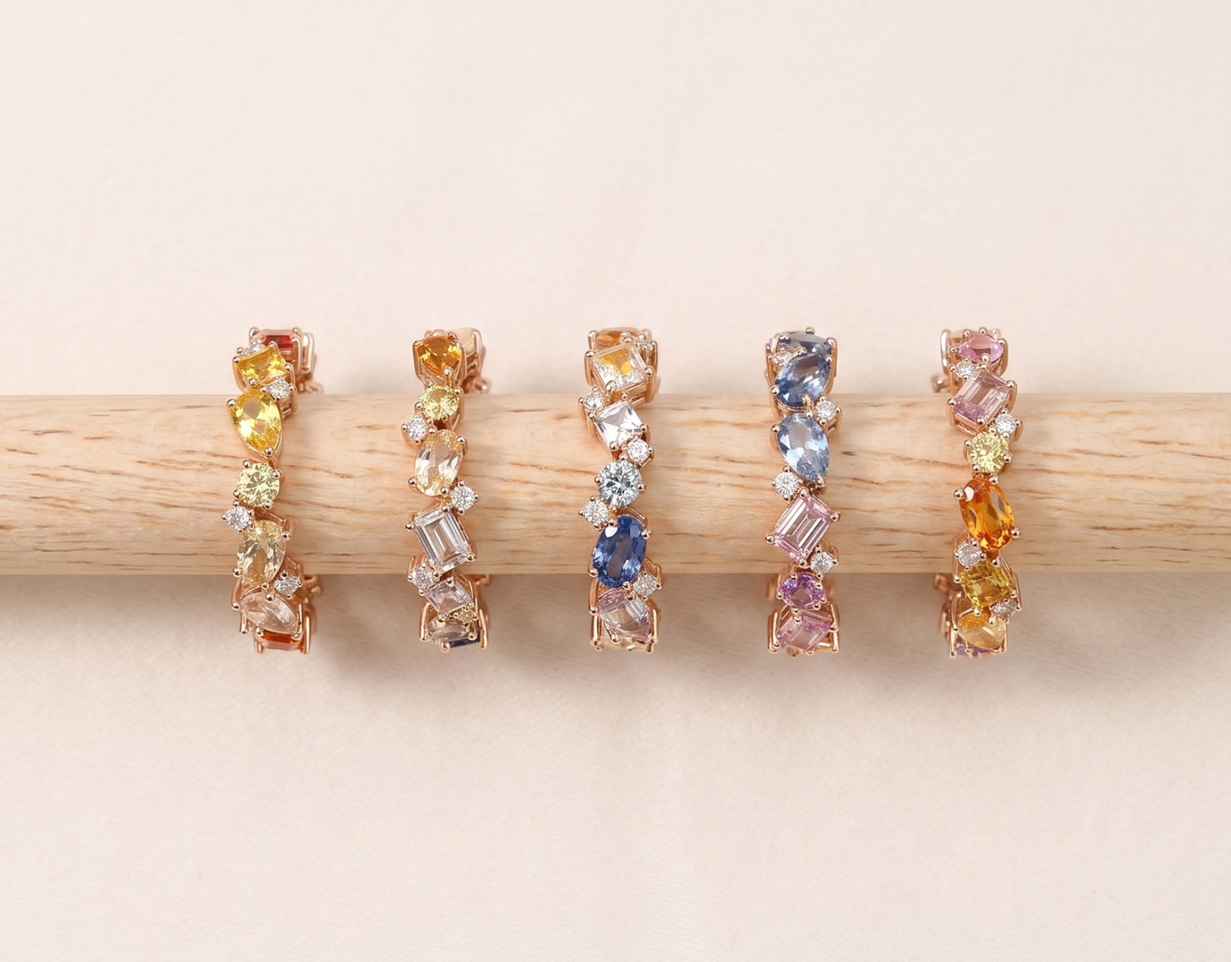
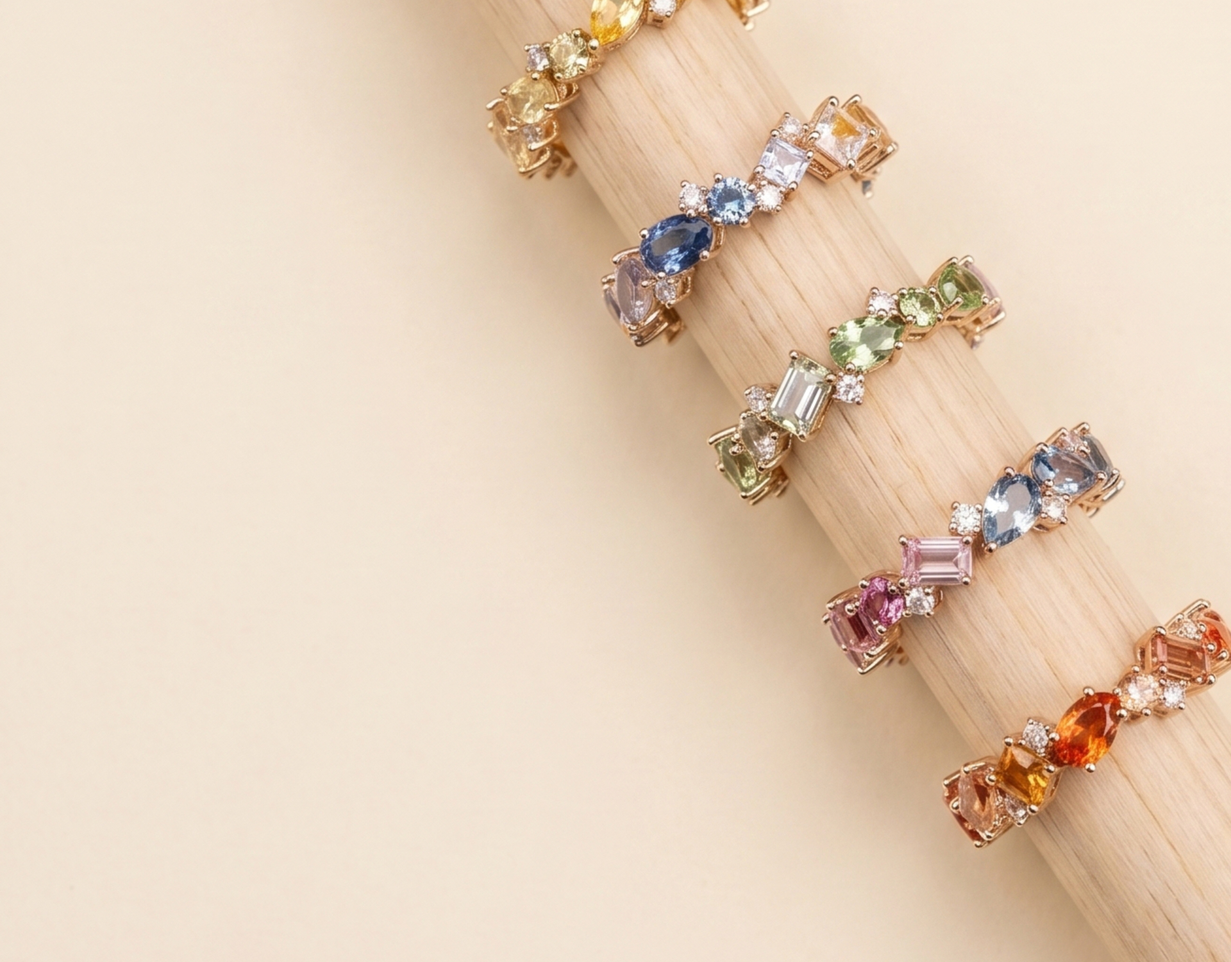
Lighten photo-header scrim and fix Selected Works card spacing
Replace the broad full-image dark overlay on photo headers (hero, about,
selected works, contact) with a localized scrim behind the text plus a
text-shadow, so photos stay vibrant instead of washing out. Also give
Selected Works cards proper padding, a contained background, and clearer
field grouping instead of text running flush to the edge.

diff --git a/src/app/page.tsx b/src/app/page.tsx
@@ -53,7 +53,7 @@ export default function Home() {
               priority
               className="-z-20 object-cover"
             />
-            <div className="absolute inset-0 -z-10 bg-gradient-to-r from-ink/85 via-ink/55 to-ink/10" />
+            <div className="photo-scrim absolute inset-0 -z-10" />
           </>
         ) : (
           <ParallaxBg background={heroGradient} />
@@ -61,14 +61,14 @@ export default function Home() {
         <div className="mx-auto flex max-w-6xl flex-col items-start gap-8 px-6 py-24">
           <p
             className={`text-xs uppercase tracking-[0.3em] ${
-              heroImage ? "text-tan" : "text-crimson"
+              heroImage ? "text-scrim text-tan" : "text-crimson"
             }`}
           >
             {siteConfig.tagline}
           </p>
           <h1
             className={`font-display max-w-4xl text-6xl font-semibold leading-[0.95] tracking-tight md:text-8xl ${
-              heroImage ? "text-cream" : "text-ink"
+              heroImage ? "text-scrim text-cream" : "text-ink"
             }`}
           >
             <StaggerText as="span" className="block" text="Jewelry that" />
@@ -78,7 +78,7 @@ export default function Home() {
             </span>
           </h1>
           <p
-            className={`max-w-md text-sm ${heroImage ? "text-cream/80" : "text-ink-soft"}`}
+            className={`max-w-md text-sm ${heroImage ? "text-scrim text-cream/80" : "text-ink-soft"}`}
           >
             {siteConfig.taglineThai}
           </p>
@@ -158,7 +158,7 @@ export default function Home() {
         {ctaImage ? (
           <>
             <Image src={ctaImage} alt="" fill className="-z-20 object-cover" />
-            <div className="absolute inset-0 -z-10 bg-ink/60" />
+            <div className="photo-scrim absolute inset-0 -z-10" />
           </>
         ) : (
           <ParallaxBg background={ctaGradient} range={80} />
@@ -166,7 +166,7 @@ export default function Home() {
         <Reveal className="mx-auto flex max-w-6xl flex-col items-start gap-8">
           <h2
             className={`font-display max-w-2xl text-4xl font-semibold leading-tight md:text-6xl ${
-              ctaImage ? "text-cream" : "text-ink"
+              ctaImage ? "text-scrim text-cream" : "text-ink"
             }`}
           >
             Let&rsquo;s create your piece.

diff --git a/src/components/portfolio-card.tsx b/src/components/portfolio-card.tsx
@@ -37,7 +37,7 @@ export default function PortfolioCard({ item }: { item: PortfolioItem }) {
         onMouseMove={handleMouseMove}
         onMouseLeave={handleMouseLeave}
         style={{ rotateX, rotateY, transformPerspective: 900 }}
-        className="group elevate"
+        className="group elevate flex h-full flex-col bg-cream-soft"
       >
         <div className="relative aspect-[4/5] overflow-hidden bg-cream-soft">
           {cover ? (
@@ -69,19 +69,23 @@ export default function PortfolioCard({ item }: { item: PortfolioItem }) {
             transition={{ duration: 0.75, ease: [0.76, 0, 0.24, 1] }}
           />
         </div>
-        <div className="pt-4">
+        <div className="flex flex-1 flex-col px-5 py-5">
           <p className="text-xs uppercase tracking-widest text-crimson">
             {item.category} <span className="text-ink-soft/60">· {item.categoryThai}</span>
           </p>
-          <h3 className="text-xl font-medium text-ink">{item.title}</h3>
+          <h3 className="mt-2 text-xl font-medium text-ink">{item.title}</h3>
           <p className="text-sm text-ink-soft">{item.titleThai}</p>
-          <p className="mt-1 text-xs uppercase tracking-widest text-ink-soft/60">
-            {item.gemstone}
-          </p>
-          <p className="mt-2 text-sm font-medium text-ink">
-            Starting at <span className="text-crimson">{item.startingPrice}</span>
-          </p>
-          <p className="mt-2 text-sm text-ink-soft">{item.description}</p>
+
+          <div className="mt-4 flex items-center justify-between gap-3 border-t border-tan-deep/20 pt-3">
+            <span className="text-xs uppercase tracking-widest text-ink-soft/60">
+              {item.gemstone}
+            </span>
+            <span className="whitespace-nowrap text-sm font-medium text-crimson">
+              {item.startingPrice}
+            </span>
+          </div>
+
+          <p className="mt-3 line-clamp-2 text-sm text-ink-soft">{item.description}</p>
         </div>
       </motion.article>
     </Link>

diff --git a/src/app/contact/page.tsx b/src/app/contact/page.tsx
@@ -24,14 +24,14 @@ export default function ContactPage() {
         {headerImage && (
           <>
             <Image src={headerImage} alt="" fill priority className="-z-20 object-cover" />
-            <div className="absolute inset-0 -z-10 bg-gradient-to-r from-ink/85 via-ink/55 to-ink/10" />
+            <div className="photo-scrim absolute inset-0 -z-10" />
           </>
         )}
         <div className="mx-auto w-full max-w-6xl">
           <Reveal>
             <p
               className={`text-xs uppercase tracking-[0.3em] ${
-                headerImage ? "text-tan" : "text-crimson"
+                headerImage ? "text-scrim text-tan" : "text-crimson"
               }`}
             >
               Contact
@@ -39,11 +39,11 @@ export default function ContactPage() {
             <StaggerText
               as="h1"
               className={`font-display mt-4 block text-5xl font-semibold leading-[0.95] md:text-7xl ${
-                headerImage ? "text-cream" : "text-ink"
+                headerImage ? "text-scrim text-cream" : "text-ink"
               }`}
               text="Let's talk"
             />
-            <p className={`mt-4 ${headerImage ? "text-cream/80" : "text-ink-soft"}`}>
+            <p className={`mt-4 ${headerImage ? "text-scrim text-cream/80" : "text-ink-soft"}`}>
               ยินดีให้คำปรึกษาเรื่องเครื่องประดับของคุณ
             </p>
           </Reveal>

diff --git a/src/app/selectedworks/page.tsx b/src/app/selectedworks/page.tsx
@@ -26,14 +26,14 @@ export default function SelectedWorksPage() {
         {headerImage && (
           <>
             <Image src={headerImage} alt="" fill priority className="-z-20 object-cover" />
-            <div className="absolute inset-0 -z-10 bg-gradient-to-r from-ink/85 via-ink/55 to-ink/10" />
+            <div className="photo-scrim absolute inset-0 -z-10" />
           </>
         )}
         <div className="mx-auto w-full max-w-6xl">
           <Reveal>
             <p
               className={`text-xs uppercase tracking-[0.3em] ${
-                headerImage ? "text-tan" : "text-crimson"
+                headerImage ? "text-scrim text-tan" : "text-crimson"
               }`}
             >
               Selected Works
@@ -41,7 +41,7 @@ export default function SelectedWorksPage() {
             <StaggerText
               as="h1"
               className={`font-display mt-4 block text-5xl font-semibold leading-[0.95] md:text-7xl ${
-                headerImage ? "text-cream" : "text-ink"
+                headerImage ? "text-scrim text-cream" : "text-ink"
               }`}
               text="Curated pieces"
             />

diff --git a/src/app/about/page.tsx b/src/app/about/page.tsx
@@ -56,14 +56,14 @@ export default function AboutPage() {
         {storyImage && (
           <>
             <Image src={storyImage} alt="" fill priority className="-z-20 object-cover" />
-            <div className="absolute inset-0 -z-10 bg-gradient-to-r from-ink/85 via-ink/55 to-ink/10" />
+            <div className="photo-scrim absolute inset-0 -z-10" />
           </>
         )}
         <div className="mx-auto w-full max-w-4xl">
           <Reveal>
             <p
               className={`text-xs uppercase tracking-[0.3em] ${
-                storyImage ? "text-tan" : "text-crimson"
+                storyImage ? "text-scrim text-tan" : "text-crimson"
               }`}
             >
               About Us
@@ -71,7 +71,7 @@ export default function AboutPage() {
             <StaggerText
               as="h1"
               className={`font-display mt-4 block text-5xl font-semibold leading-[0.95] md:text-7xl ${
-                storyImage ? "text-cream" : "text-ink"
+                storyImage ? "text-scrim text-cream" : "text-ink"
               }`}
               text={`The story behind ${siteConfig.name}`}
             />

diff --git a/src/app/globals.css b/src/app/globals.css
@@ -52,6 +52,22 @@ body {
     0 24px 44px -14px color-mix(in srgb, var(--color-crimson) 30%, transparent);
 }
 
+/* Darkens only the zone behind overlaid text, leaving most of the photo untouched. */
+.photo-scrim {
+  background: linear-gradient(
+    100deg,
+    color-mix(in srgb, var(--color-ink) 78%, transparent) 0%,
+    color-mix(in srgb, var(--color-ink) 32%, transparent) 32%,
+    transparent 58%
+  );
+}
+
+.text-scrim {
+  text-shadow:
+    0 2px 16px rgba(0, 0, 0, 0.35),
+    0 1px 3px rgba(0, 0, 0, 0.45);
+}
+
 body::after {
   content: "";
   position: fixed;
